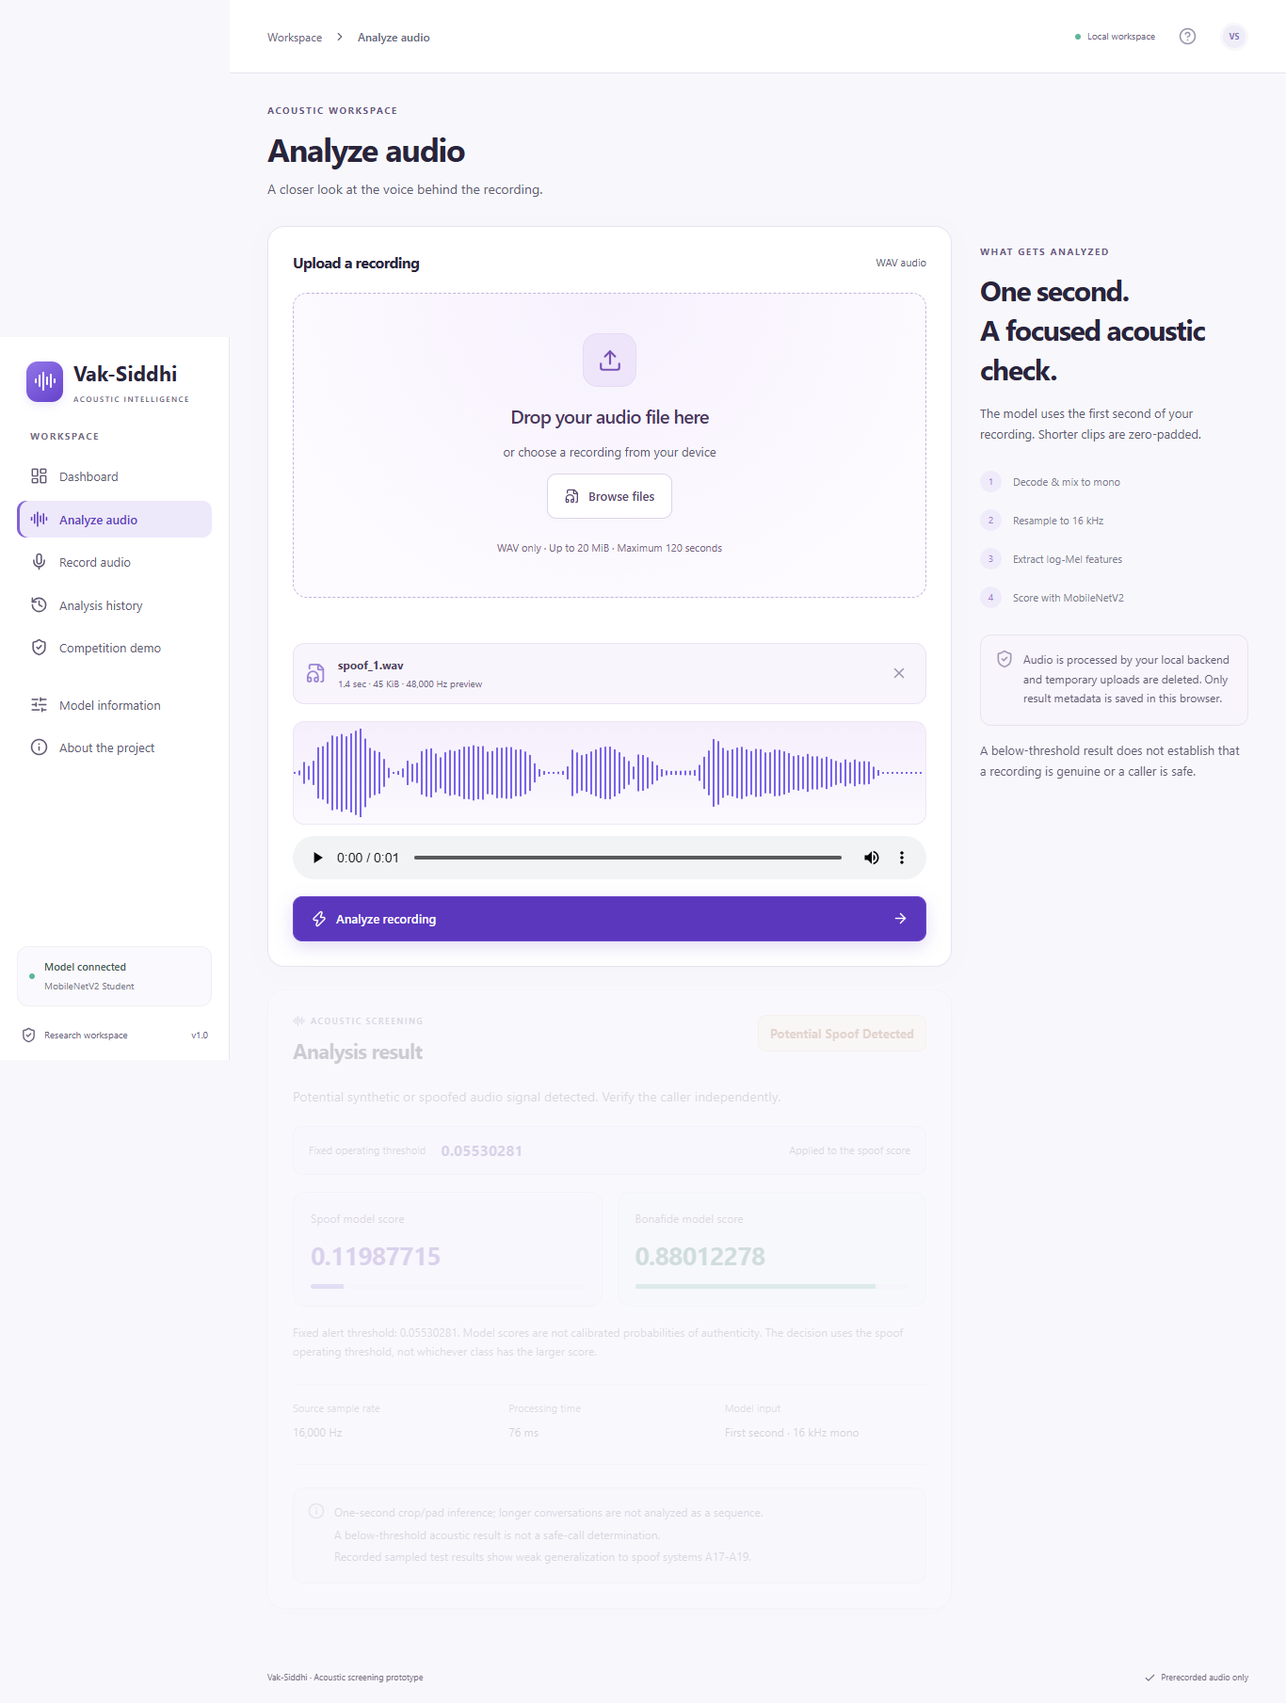
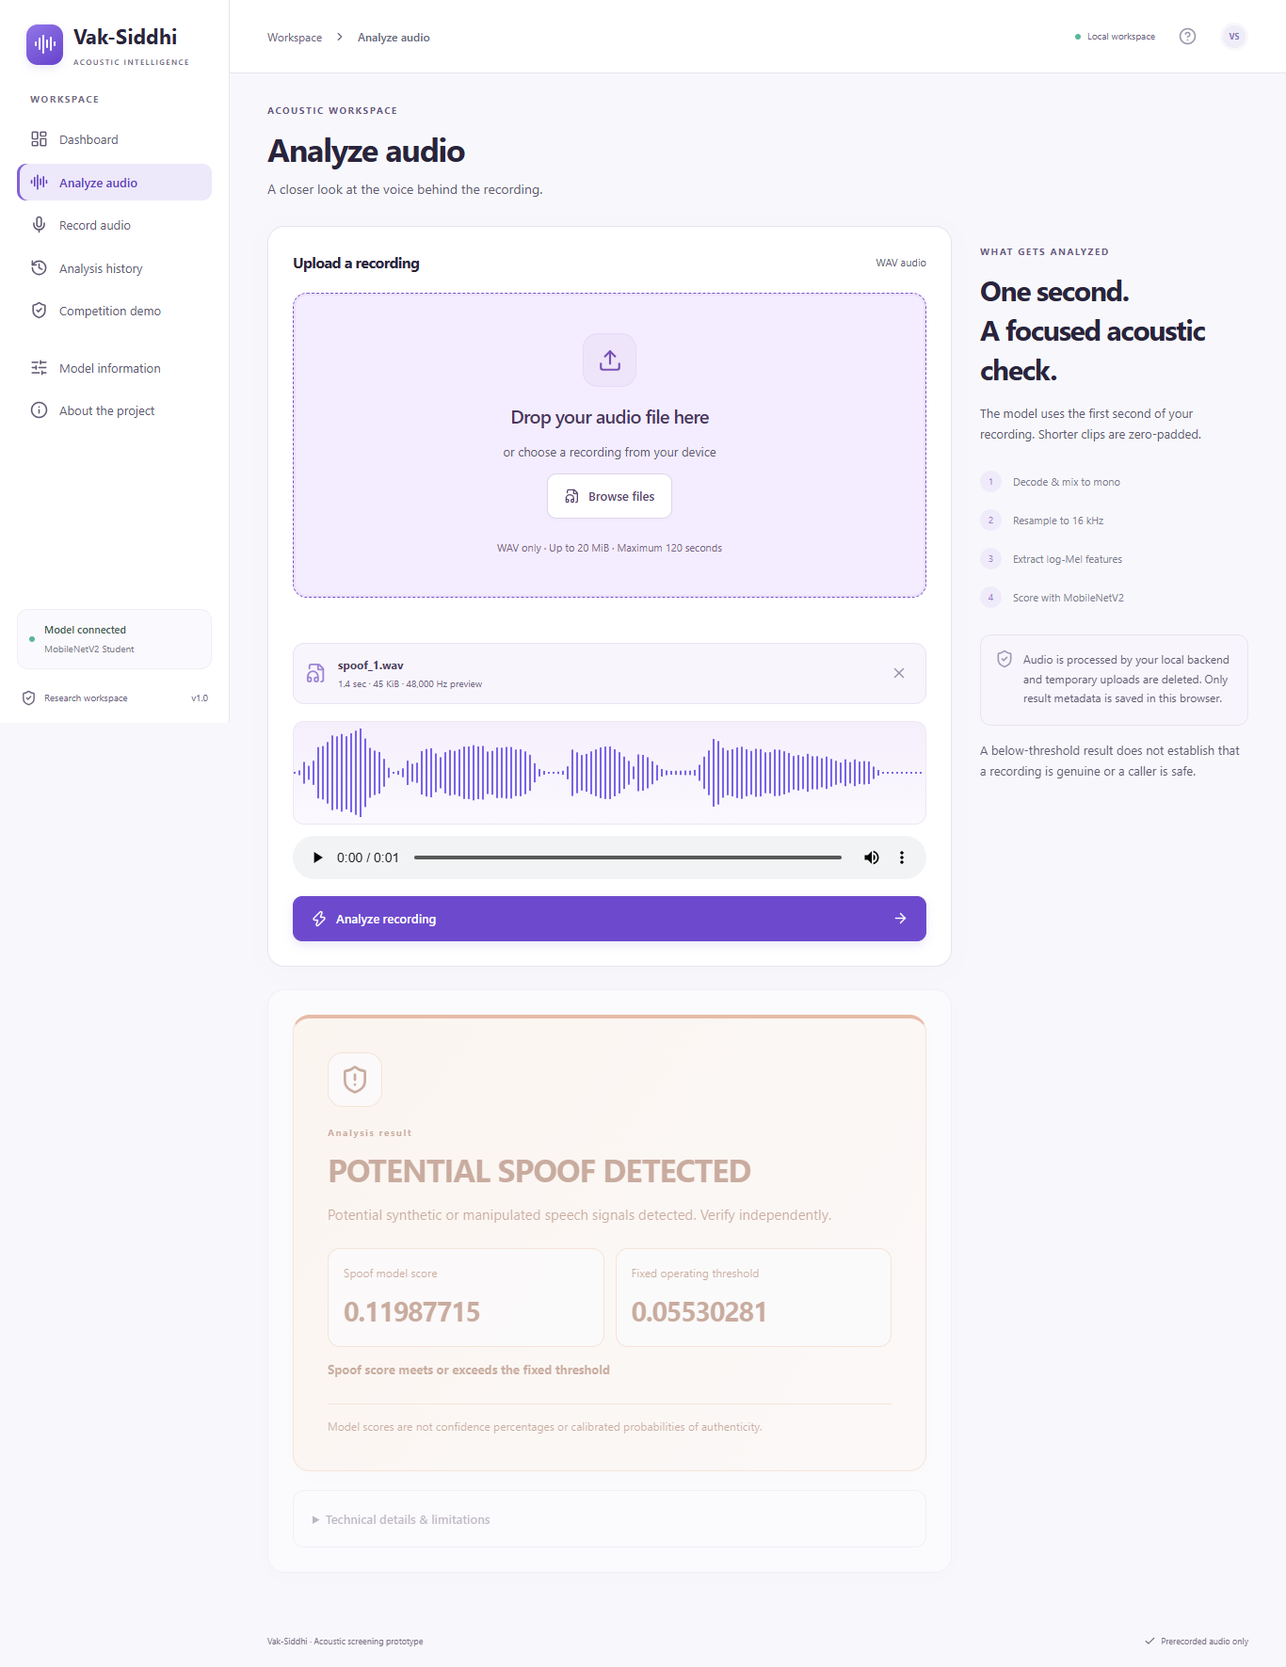
Lead acoustic results with prominent verdict and spoof-only score display

diff --git a/frontend/src/components.jsx b/frontend/src/components.jsx
@@ -1,8 +1,9 @@
 import { useEffect, useRef } from "react";
 import { Link } from "react-router-dom";
-import { FileAudio, ArrowRight, Info, X, ChevronRight, AudioLines } from "lucide-react";
-import { percent, date } from "./lib";
-import { predictionLabel, modelScore } from "./prediction";
+import { FileAudio, ArrowRight, Info, X, ChevronRight, ShieldAlert, ShieldQuestion } from "lucide-react";
+import { useReducedMotion } from "framer-motion";
+import { date } from "./lib";
+import { predictionLabel, modelScore, hasAnalysisResponse } from "./prediction";
 export function Badge({ prediction }) {
   return (
     <span className={`badge ${prediction === "spoof" ? "warning" : "neutral"}`}>
@@ -25,34 +26,35 @@ export function Empty({
     </div>
   );
 }
-export function Result({ result }) {
+export function Result({ result, autoReveal = false }) {
+  const ref = useRef(null);
+  const reducedMotion = useReducedMotion();
+  useEffect(() => {
+    if (!autoReveal || !ref.current) return;
+    const bounds = ref.current.getBoundingClientRect();
+    if (bounds.top < 0 || bounds.top > window.innerHeight - 180)
+      ref.current.scrollIntoView({ behavior: reducedMotion ? "instant" : "smooth", block: "start" });
+  }, [result, autoReveal, reducedMotion]);
+  if (!hasAnalysisResponse(result)) return <div role="alert" className="error">Prediction unavailable. No acoustic verdict can be displayed.</div>;
+  const spoof = result.acoustic.prediction === "spoof";
+  const VerdictIcon = spoof ? ShieldAlert : ShieldQuestion;
   return (
-    <div className="result">
-      <div className="section-title result-heading">
-        <div><span className="eyebrow"><AudioLines size={13} /> ACOUSTIC SCREENING</span><h2>Analysis result</h2></div>
-        <Badge prediction={result.acoustic.prediction} />
-      </div>
-      <p>{result.message}</p>
-      <div className="threshold-callout"><span>Fixed operating threshold</span><strong>{result.acoustic.threshold}</strong><span>Applied to the spoof score</span></div>
+    <div className="result" ref={ref}>
+      <section className={`detection-verdict ${spoof ? "verdict-warning" : "verdict-inconclusive"}`} aria-label="Acoustic detection verdict">
+        <span className="verdict-icon"><VerdictIcon size={32} aria-hidden="true" /></span>
+        <span className="eyebrow">Analysis result</span>
+        <h2 className="verdict-title">{spoof ? "POTENTIAL SPOOF DETECTED" : "NO SPOOF ALERT — INCONCLUSIVE"}</h2>
+        <p>{spoof ? "Potential synthetic or manipulated speech signals detected. Verify independently." : "No acoustic spoof alert was raised. This does not verify that the recording is genuine or safe."}</p>
       <div className="score-grid">
-        {[
-          ["Spoof model score", result.acoustic.spoof_score],
-          ["Bonafide model score", result.acoustic.bonafide_score],
-        ].map(([label, value]) => (
-          <div key={label}>
-            <span>{label}</span>
-            <strong>{modelScore(value)}</strong>
-            <div className="score-track">
-              <div style={{ width: percent(value) }} />
-            </div>
-          </div>
-        ))}
+        <div><span>Spoof model score</span><strong>{modelScore(result.acoustic.spoof_score)}</strong></div>
+        <div><span>Fixed operating threshold</span><strong>{result.acoustic.threshold}</strong></div>
       </div>
+      <div className="verdict-comparison">{spoof ? "Spoof score meets or exceeds the fixed threshold" : "Spoof score is below the fixed threshold"}</div>
       <p className="caption">
-        Fixed alert threshold: {result.acoustic.threshold}. Model scores are not
-        calibrated probabilities of authenticity. The decision uses the spoof
-        operating threshold, not whichever class has the larger score.
+        Model scores are not confidence percentages or calibrated probabilities of authenticity.
       </p>
+      </section>
+      <details className="result-technical"><summary>Technical details & limitations</summary>
       <dl className="facts">
         <div>
           <dt>Source sample rate</dt>
@@ -75,6 +77,7 @@ export function Result({ result }) {
           ))}
         </div>
       </div>
+      </details>
     </div>
   );
 }

diff --git a/frontend/src/exhibition.css b/frontend/src/exhibition.css
@@ -252,3 +252,53 @@ footer { color: #786b82; }
   .waveform-band { animation: none; }
   *, *::before, *::after { transition: none !important; animation: none !important; }
 }
+
+/* The authoritative verdict leads every shared result view. */
+.result { scroll-margin-top: 24px; }
+.detection-verdict {
+  --verdict-ink: #523e78;
+  --verdict-line: #d8cbea;
+  border: 1px solid var(--verdict-line);
+  border-top: 4px solid #8060b5;
+  border-radius: 18px;
+  padding: clamp(22px, 3vw, 36px);
+  background: linear-gradient(135deg, #f5f0fb, #faf8fd);
+  box-shadow: 0 8px 28px #4c34600b;
+  color: var(--verdict-ink);
+  animation: verdict-enter .28s ease-out both;
+  scroll-margin-top: 24px;
+}
+.verdict-warning {
+  --verdict-ink: #843b16;
+  --verdict-line: #efc5a3;
+  background: linear-gradient(125deg, #fff0df, #fff8f2);
+  border-top-color: #ce612b;
+  box-shadow: 0 8px 28px #9c48230d;
+}
+.verdict-icon { display: grid; place-items: center; width: 58px; height: 58px; border-radius: 16px; color: var(--verdict-ink); background: #ffffffa6; border: 1px solid var(--verdict-line); margin-bottom: 20px; }
+.detection-verdict .eyebrow { color: var(--verdict-ink); margin-bottom: 12px; font-size: 10px; }
+.detection-verdict .verdict-title { color: var(--verdict-ink); font-size: clamp(25px, 2.5vw, 38px); font-weight: 750; line-height: 1.14; letter-spacing: -.035em; overflow-wrap: anywhere; margin: 0 0 16px; }
+.detection-verdict > p { color: var(--verdict-ink); font-size: 15px; line-height: 1.65; max-width: 660px; }
+.detection-verdict .score-grid { grid-template-columns: repeat(2, minmax(0, 1fr)); margin: 24px 0 14px; gap: 12px; }
+.detection-verdict .score-grid > div, .detection-verdict .score-grid > div:last-child { background: #ffffffaf; border-color: var(--verdict-line); padding: 16px; }
+.detection-verdict .score-grid span { color: var(--verdict-ink); font-size: 12px; }
+.detection-verdict .score-grid strong, .detection-verdict .score-grid > div:last-child strong { color: var(--verdict-ink); font-size: clamp(24px, 2.1vw, 34px); margin-bottom: 0; }
+.verdict-comparison { font-size: 13px; font-weight: 650; color: var(--verdict-ink); padding: 0 0 16px; }
+.detection-verdict > .caption { border-top: 1px solid var(--verdict-line); padding-top: 14px; font-size: 12px; color: var(--verdict-ink); }
+.result-technical { margin-top: 20px; border: 1px solid #e7e0ef; border-radius: 12px; padding: 16px; }
+.result-technical summary { cursor: pointer; color: #665471; font-size: 13px; font-weight: 600; padding: 4px; }
+.result-technical summary:focus-visible { outline: 3px solid #7655ce; outline-offset: 4px; }
+.result-technical .facts { margin-top: 18px; }
+.demo-sample .detection-verdict { padding: 22px 18px; }
+.demo-sample .verdict-title { font-size: clamp(25px, 2vw, 32px); }
+.demo-sample .detection-verdict .score-grid { grid-template-columns: 1fr; }
+.demo-sample .detection-verdict .score-grid strong { font-size: 30px; }
+@keyframes verdict-enter { from { opacity: 0; transform: translateY(6px); } to { opacity: 1; transform: translateY(0); } }
+@media (max-width: 650px) {
+  .detection-verdict { padding: 22px 18px; }
+  .detection-verdict .verdict-title { font-size: 27px; }
+  .detection-verdict .score-grid { grid-template-columns: 1fr; }
+  .detection-verdict .score-grid strong { font-size: 30px; }
+  .detection-verdict > p { font-size: 14px; }
+}
+@media (prefers-reduced-motion: reduce) { .detection-verdict { animation: none; } }

diff --git a/frontend/e2e/verdict.spec.js b/frontend/e2e/verdict.spec.js
@@ -1,0 +1,43 @@
+import { test, expect } from "@playwright/test";
+import { resolve } from "node:path";
+
+for (const [file, prediction, heading, explanation] of [
+  ["spoof_1.wav", "spoof", "POTENTIAL SPOOF DETECTED", "Potential synthetic or manipulated speech signals detected. Verify independently."],
+  ["bonafide_1.wav", "below_threshold", "NO SPOOF ALERT — INCONCLUSIVE", "No acoustic spoof alert was raised. This does not verify that the recording is genuine or safe."],
+]) {
+  test(`prominent ${prediction} verdict uses real scores and hides bonafide scores everywhere`, async ({ page }) => {
+    await page.setViewportSize({ width: 390, height: 844 });
+    await page.emulateMedia({ reducedMotion: "reduce" });
+    await page.goto("/analyze");
+    await page.locator("input[type=file]").setInputFiles(resolve("../test_audio", file));
+    const response = page.waitForResponse((r) => r.url().endsWith("/api/analyze") && r.status() === 200);
+    await page.getByRole("button", { name: "Analyze recording" }).click();
+    const data = await (await response).json();
+    expect(data.acoustic.prediction).toBe(prediction);
+    expect(Number.isFinite(data.acoustic.bonafide_score)).toBe(true);
+    const result = page.locator(".result");
+    await expect(result.locator(".verdict-title")).toHaveText(heading);
+    await expect(result.locator(".verdict-title")).toBeInViewport();
+    await expect(result).toContainText(explanation);
+    await expect(result.locator(".score-grid")).toContainText(data.acoustic.spoof_score.toFixed(8));
+    await expect(result.locator(".score-grid")).toContainText(String(data.acoustic.threshold));
+    await expect(result).not.toContainText("Bonafide model score");
+    await expect(result).not.toContainText(data.acoustic.bonafide_score.toFixed(8));
+    expect(await result.locator(".detection-verdict").evaluate((el) => getComputedStyle(el).animationName)).toBe("none");
+    await expect(result.locator(".facts")).toBeHidden();
+    await result.locator("summary").click();
+    await expect(result.locator(".facts")).toBeVisible();
+    await page.goto("/history");
+    await page.getByRole("button", { name: `View ${file}` }).click();
+    await expect(page.getByRole("dialog").locator(".verdict-title")).toHaveText(heading);
+    await expect(page.getByRole("dialog")).not.toContainText("Bonafide model score");
+    await page.keyboard.press("Escape");
+    await page.goto("/");
+    await expect(page.locator("main")).not.toContainText("Bonafide model score");
+    await page.goto("/demo");
+    await page.getByRole("button", { name: "Run comparison" }).click();
+    const card = page.locator(`.demo-sample.${prediction === "spoof" ? "spoof" : "bonafide"}`);
+    await expect(card.locator(".verdict-title")).toHaveText(heading, { timeout: 30000 });
+    await expect(page.locator("main")).not.toContainText("Bonafide model score");
+  });
+}

diff --git a/frontend/e2e/prediction-parity.spec.js b/frontend/e2e/prediction-parity.spec.js
@@ -12,7 +12,7 @@ test("exact WAV files preserve CLI decisions through live API, rendering and his
   page,
 }) => {
   test.setTimeout(120000);
-  for (const [filename, prediction, label] of cases) {
+  for (const [filename, prediction] of cases) {
     const file = resolve(root, "test_audio", filename);
     const cli = JSON.parse(
       execFileSync(
@@ -52,7 +52,10 @@ test("exact WAV files preserve CLI decisions through live API, rendering and his
       path: `test-results/${filename}-result.png`,
       fullPage: true,
     });
-    await expect(page.locator(".result .badge")).toHaveText(label);
+    await expect(page.locator(".result .verdict-title")).toHaveText(prediction === "spoof" ? "POTENTIAL SPOOF DETECTED" : "NO SPOOF ALERT — INCONCLUSIVE");
+    await expect(page.locator(".result")).not.toContainText("Bonafide model score");
+    await expect(page.locator(".result .verdict-comparison")).toContainText(prediction === "spoof" ? "meets or exceeds" : "below");
+    await expect(page.locator(".result .result-technical")).not.toHaveAttribute("open", "");
     await expect(page.locator(".result")).toContainText(
       String(api.acoustic.threshold),
     );
@@ -66,8 +69,8 @@ test("exact WAV files preserve CLI decisions through live API, rendering and his
     const row = page.getByRole("row").filter({ hasText: filename });
     await expect(row.locator(".badge")).toHaveText(label);
     await row.getByRole("button", { name: `View ${filename}` }).click();
-    await expect(page.getByRole("dialog").locator(".result .badge")).toHaveText(
-      label,
+    await expect(page.getByRole("dialog").locator(".result .verdict-title")).toHaveText(
+      prediction === "spoof" ? "POTENTIAL SPOOF DETECTED" : "NO SPOOF ALERT — INCONCLUSIVE",
     );
     await page.keyboard.press("Escape");
     const records = await page.evaluate(() =>
@@ -82,7 +85,7 @@ test("exact WAV files preserve CLI decisions through live API, rendering and his
     await page.setViewportSize({ width, height: 900 });
     await page.getByRole("button", { name: "View spoof_1.wav" }).click();
     await expect(
-      page.getByRole("dialog").getByText("Potential Spoof Detected"),
+      page.getByRole("dialog").getByText("POTENTIAL SPOOF DETECTED", { exact: true }),
     ).toBeVisible();
     expect(
       await page.evaluate(

diff --git a/frontend/e2e/competition.spec.js b/frontend/e2e/competition.spec.js
@@ -24,12 +24,12 @@ test("offline local demo computes real results, persists both records and render
       received.push(await response.json());
   });
   await page.getByRole("button", { name: "Run comparison" }).click();
-  await expect(page.locator(".demo-sample.bonafide .result .badge")).toHaveText(
-    "No Spoof Alert / Inconclusive",
+  await expect(page.locator(".demo-sample.bonafide .verdict-title")).toHaveText(
+    "NO SPOOF ALERT — INCONCLUSIVE",
     { timeout: 30000 },
   );
-  await expect(page.locator(".demo-sample.spoof .result .badge")).toHaveText(
-    "Potential Spoof Detected",
+  await expect(page.locator(".demo-sample.spoof .verdict-title")).toHaveText(
+    "POTENTIAL SPOOF DETECTED",
   );
   await expect(
     page.getByRole("button", { name: "Run comparison" }),
@@ -67,7 +67,7 @@ test("offline local demo computes real results, persists both records and render
       .toBe(true);
     await page.waitForTimeout(1800);
     await expect(
-      page.locator(".demo-sample.spoof .result .badge"),
+      page.locator(".demo-sample.spoof .verdict-title"),
     ).toBeVisible();
     await page.screenshot({
       path: `test-results/competition-${viewport.width}.png`,

diff --git a/frontend/src/DemoPage.jsx b/frontend/src/DemoPage.jsx
@@ -126,6 +126,13 @@ export default function DemoPage({ onSave }) {
     [error, setError] = useState("");
   const request = useRef(null),
     reduceMotion = useReducedMotion();
+  const comparison = useRef(null);
+  useEffect(() => {
+    if (busy || !results.bonafide || !results.spoof) return;
+    const verdict = comparison.current?.querySelector(".detection-verdict");
+    if (verdict && verdict.getBoundingClientRect().top > window.innerHeight - 180)
+      verdict.scrollIntoView({ behavior: reduceMotion ? "instant" : "smooth", block: "start" });
+  }, [busy, results, reduceMotion]);
   useEffect(() => () => request.current?.abort(), []);
   function choose(label, name) {
     setSelection((current) => ({
@@ -251,7 +258,7 @@ export default function DemoPage({ onSave }) {
           </p>
         </div>
       )}
-      <div className="demo-comparison">
+      <div className="demo-comparison" ref={comparison}>
         {["bonafide", "spoof"].map((label) => (
           <SamplePanel
             key={selection[label].name}

diff --git a/frontend/e2e/release.spec.js b/frontend/e2e/release.spec.js
@@ -24,7 +24,7 @@ test("upload rejects incomplete responses, reports errors and retries real infer
   await expect(button).toBeEnabled();
   await page.unroute("**/api/analyze");
   await button.click();
-  await expect(page.locator(".result .badge")).toHaveText("Potential Spoof Detected", { timeout: 30000 });
+  await expect(page.locator(".result .verdict-title")).toHaveText("POTENTIAL SPOOF DETECTED", { timeout: 30000 });
   await expect(page.locator(".score-grid")).toContainText("0.11987715");
   await page.goto("/history");
   await page.reload();

diff --git a/frontend/src/Analyze.jsx b/frontend/src/Analyze.jsx
@@ -353,7 +353,7 @@ export default function Analyze({ record = false, onSave }) {
               animate={{ opacity: 1, y: 0 }}
               className="panel"
             >
-              <Result result={result} />
+              <Result result={result} autoReveal />
             </motion.div>
           )}
         </section>

diff --git a/docs/ui-exhibition/UI_EXHIBITION_CHECK.md b/docs/ui-exhibition/UI_EXHIBITION_CHECK.md
@@ -10,7 +10,8 @@ Branch: `ui-exhibition-polish`, created from tested stabilization commit `29be9d
 - Stronger type hierarchy, violet accents, warmer status colors, rounded surfaces and restrained shadows. Local activity cards have icon tiles and hover states; their source remains browser history. Activity is explicitly labeled as local activity, not model performance.
 - Styled real-data chart tooltips/legend and a linked empty state. Recharts honors reduced-motion preference on the dashboard; the decorative motif stops, too.
 - More prominent upload, waveform, playback and analysis controls; clearer drag hover, loading, decoding and error surfaces without changing handlers.
-- Result status and supporting explanation precede scores. A threshold callout displays the existing response value; the original decimal score formatter, threshold and probability disclaimer remain unchanged. Technical details follow the scores.
+- A large orange warning or calm lavender inconclusive verdict leads every result. Only the real spoof model score and fixed threshold are displayed, with the threshold relationship explicitly stated. Bonafide scores remain in the API/raw outputs and parity tests but are never rendered. Technical metadata and detailed limitations are in a secondary disclosure.
+- Upload/record results reveal themselves by scrolling when outside the visible viewport. Completed comparisons reveal their first verdict when needed. Reduced motion disables smooth scrolling and the subtle verdict entrance animation.
 - Comparison cards distinguish inherited dataset truth from the computed model result; larger type and stronger status contrast improve projector readability.
 
 ## Gates
@@ -18,8 +19,8 @@ Branch: `ui-exhibition-polish`, created from tested stabilization commit `29be9d
 | Verification | Result |
 |---|---|
 | Existing frontend unit suite | PASS: 4/4 |
-| Existing production browser suite | PASS: all 9 existing tests |
-| Added exhibition browser checks | PASS: 2/2, total 11/11 |
+| Existing production browser suite | PASS: all 9 existing tests, updated result selectors for the new verdict headings |
+| Added exhibition/verdict browser checks | PASS: 4/4, total 13/13; both real verdict states, mobile reveal, hidden bonafide scores, history/demo consistency and technical disclosure |
 | Final light-theme smoke rerun | PASS: 3/3 (offline demo, five-width layouts, reduced-motion motif); after screenshots refreshed |
 | ESLint / Vite production build | PASS |
 | Upload / drag/drop / waveform / playback | PASS |
@@ -34,7 +35,7 @@ Branch: `ui-exhibition-polish`, created from tested stabilization commit `29be9d
 
 No dependencies were added. Screenshots use real local inference and browser history created by those requests, not fabricated analytics. Timestamps and processing times naturally differ between captures. Screenshot capture uses reduced motion for consistent composition. Native audio controls retain browser behavior.
 
-The local runtime uses the existing environment and frontend dependencies through junctions into the original workspace. Preserve that workspace; no install is needed to preview. The production CSS is approximately 10.3 kB gzipped (baseline 7.19 kB); no new network assets or fonts.
+The local runtime uses the existing environment and frontend dependencies through junctions into the original workspace. Preserve that workspace; no install is needed to preview. The production CSS is approximately 10.8 kB gzipped (baseline 7.19 kB); no new network assets or fonts.
 
 ## Exact changed files
 
@@ -44,10 +45,16 @@ Runtime presentation only:
 - `frontend/src/components.jsx`
 - `frontend/src/main.jsx`
 - `frontend/src/exhibition.css` (new)
+- `frontend/src/Analyze.jsx` (result auto-reveal only)
+- `frontend/src/DemoPage.jsx` (completed-verdict auto-reveal only)
 
 Verification/documentation:
 
 - `frontend/e2e/exhibition.spec.js` (new responsive/focus/reduced-motion checks)
+- `frontend/e2e/verdict.spec.js` (new real spoof/below-threshold regression checks)
+- `frontend/e2e/competition.spec.js` (updated result heading selectors)
+- `frontend/e2e/prediction-parity.spec.js` (updated headings, hidden score and threshold-relationship assertions; both raw API scores remain checked)
+- `frontend/e2e/release.spec.js` (updated result heading selector)
 - `frontend/e2e/capture-polish.mjs` (new reproducible real-data capture utility)
 - `docs/ui-exhibition/UI_EXHIBITION_CHECK.md` (this file)
 - Twelve PNGs listed individually in the comparison table below.
